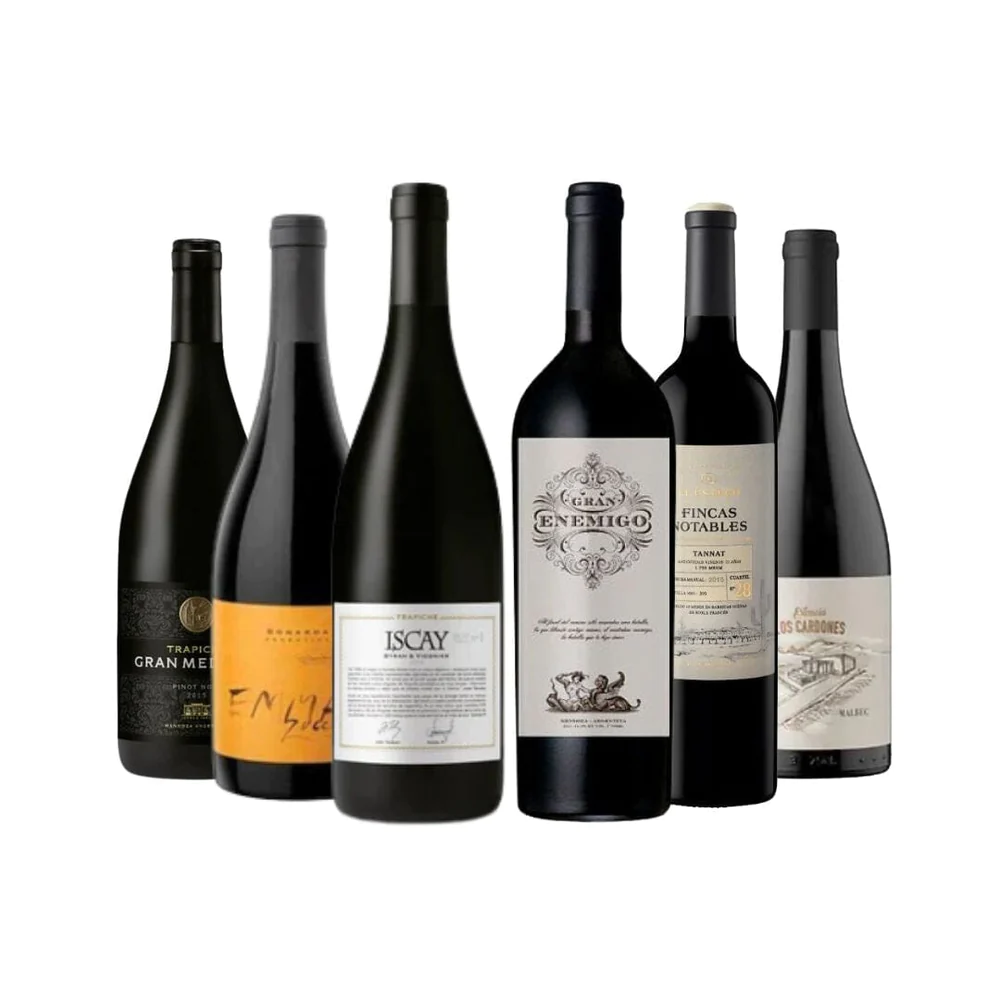
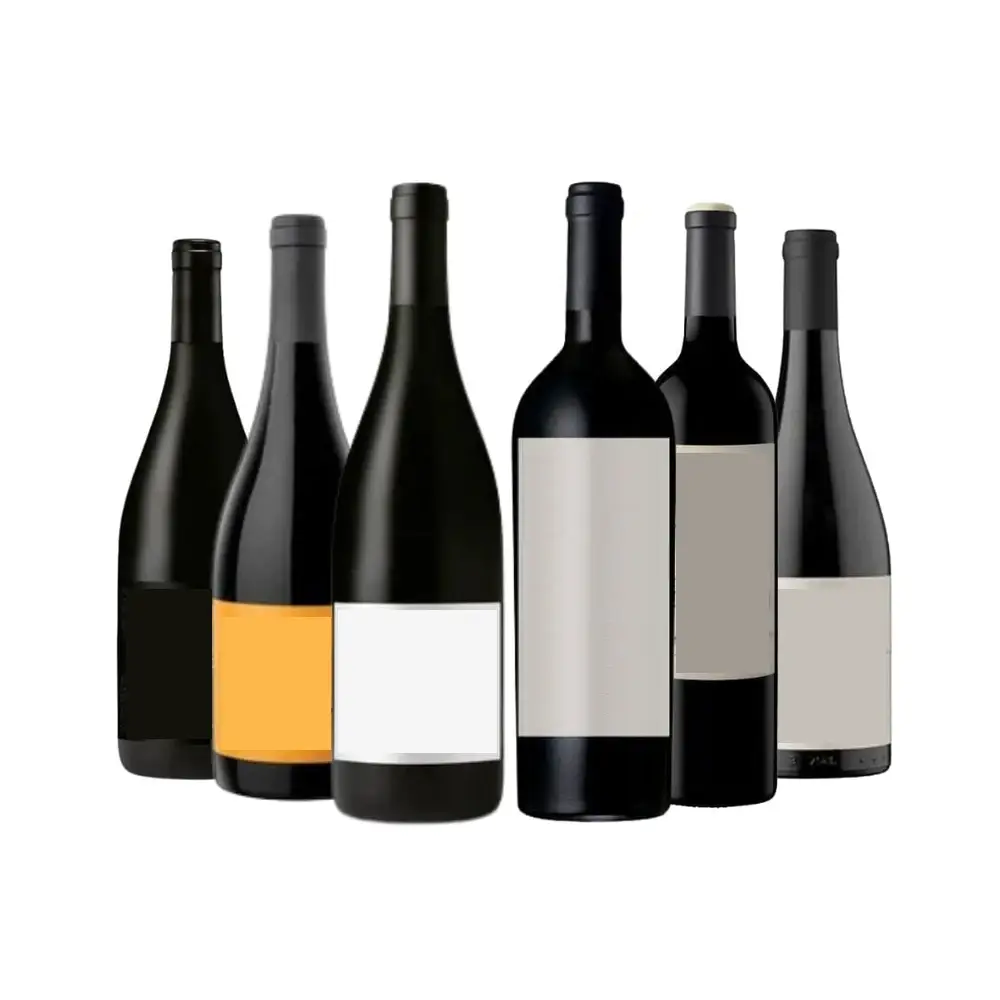
refactoring project

Changed region(s): [[0.527, 0.434, 0.868, 0.744], [0.124, 0.589, 0.496, 0.775]]

diff --git a/js/wineData.js b/js/wineData.js
@@ -2,111 +2,111 @@ const winesData = {
     "wines": [
         {
             "id": 0,
-            "name": "Malbec Reserve",
-            "description": "A full-bodied red wine with rich flavors of blackberry, plum, and hints of chocolate.",
+            "name": "Delicias del monte",
+            "description": "Un vino tinto de cuerpo completo con sabores intensos de mora, ciruela y toques de chocolate.",
             "price": 25.99,
             "year": 2018,
             "content": 750,
-            "score":89,
-            "category": "Red",
+            "score": 89,
+            "category": "Tinto",
             "stock": 5,
-            "img": "./img/wines/rotwein-fliederhof-suedtiroler-stmagdalener-classico-doc-gran-marie.webp"
+            "img": "./img/wines/generic.jpg"
         },
         {
             "id": 1,
-            "name": "Torrontés",
-            "description": "A fragrant white wine with floral aromas and notes of citrus and peach.",
+            "name": "VinoSeleccion",
+            "description": "Un vino blanco fragante con aromas florales y notas cítricas y de durazno.",
             "price": 18.5,
             "year": 2020,
             "content": 750,
-            "score":78,
-            "category": "White",
+            "score": 78,
+            "category": "Blanco",
             "stock": 10,
-            "img": "./img/wines/rotwein-gianni-doglia-grignolino-dasti-docg.webp"
+            "img": "./img/wines/generic.jpg"
         },
         {
             "id": 2,
-            "name": "Cabernet Sauvignon",
-            "description": "An elegant red wine with a complex bouquet of blackcurrant, tobacco, and spices.",
+            "name": "Gran delicia",
+            "description": "Un elegante vino tinto con un ramillete complejo de grosella negra, tabaco y especias.",
             "price": 29.75,
             "year": 2017,
             "content": 750,
-            "score":90,
-            "category": "Red",
+            "score": 90,
+            "category": "Tinto",
             "stock": 7,
-            "img": "./img/wines/rotwein-pio-cesare-barolo-docg.webp"
+            "img": "./img/wines/generic.jpg"
         },
         {
             "id": 3,
-            "name": "Chardonnay",
-            "description": "A rich and buttery white wine with flavors of tropical fruits and a hint of vanilla.",
+            "name": "Gran delicia",
+            "description": "Un vino blanco rico y untuoso con sabores de frutas tropicales y un toque de vainilla.",
             "price": 22.0,
             "year": 2019,
             "content": 750,
-            "score":87,
-            "category": "White",
+            "score": 87,
+            "category": "Blanco",
             "stock": 8,
-            "img": "./img/wines/rotwein-vespa-salento-negroamaro-igt-il-fedale.webp"
+            "img": "./img/wines/generic.jpg"
         },
         {
             "id": 4,
-            "name": "Bonarda",
-            "description": "A medium-bodied red wine with notes of ripe berries, black pepper, and a touch of oak.",
+            "name": "Chipione",
+            "description": "Un vino tinto de cuerpo medio con notas de bayas maduras, pimienta negra y un toque de roble.",
             "price": 19.9,
             "year": 2018,
             "content": 750,
-            "score":83,
-            "category": "Red",
+            "score": 83,
+            "category": "Tinto",
             "stock": 1,
-            "img": "./img/wines/rotwein-fliederhof-suedtiroler-stmagdalener-classico-doc-gran-marie.webp"
+            "img": "./img/wines/generic.jpg"
         },
         {
             "id": 5,
-            "name": "Malbec Rosé",
-            "description": "A refreshing rosé wine with delicate flavors of strawberries and a crisp finish.",
+            "name": "BuenBec",
+            "description": "Un refrescante vino rosado con sabores delicados de fresas y un final crujiente.",
             "price": 16.5,
             "year": 2020,
             "content": 750,
-            "score":69,
-            "category": "Rosé",
+            "score": 69,
+            "category": "Rosado",
             "stock": 5,
-            "img": "./img/wines/fliederhof-suedtiroler-sauvignon-doc-stella.webp"
+            "img": "./img/wines/generic.jpg"
         },
         {
             "id": 6,
-            "name": "Syrah",
-            "description": "A bold and spicy red wine with aromas of black fruits, black pepper, and a hint of violet.",
+            "name": "Chipione",
+            "description": "Un vino tinto intenso y especiado con aromas de frutas negras, pimienta negra y un toque de violeta.",
             "price": 26.5,
             "year": 2016,
             "content": 750,
-            "score":88,
-            "category": "Red",
+            "score": 88,
+            "category": "Tinto",
             "stock": 9,
-            "img": "./img/wines/inama-campo-del-lago-merlot-2015.webp"
+            "img": "./img/wines/generic.jpg"
         },
         {
             "id": 7,
-            "name": "Sauvignon Blanc",
-            "description": "A crisp and vibrant white wine with zesty citrus flavors and a herbal undertone.",
+            "name": "BuenBec",
+            "description": "Un vino blanco fresco y vibrante con sabores cítricos vivaces y un toque herbal.",
             "price": 21.75,
             "year": 2021,
             "content": 750,
-            "score":86,
-            "category": "White",
+            "score": 86,
+            "category": "Blanco",
             "stock": 15,
-            "img": "./img/wines/rotwein-vespa-salento-negroamaro-igt-il-fedale.webp"
+            "img": "./img/wines/generic.jpg"
         },
         {
             "id": 8,
-            "name": "Merlot",
-            "description": "A smooth and velvety red wine with flavors of black cherry, plum, and a hint of mocha.",
+            "name": "Marlot",
+            "description": "Un vino tinto suave y aterciopelado con sabores de cereza negra, ciruela y un toque de mocca.",
             "price": 23.99,
             "year": 2019,
             "content": 750,
-            "score":85,
-            "category": "Red",
+            "score": 85,
+            "category": "Tinto",
             "stock": 25,
-            "img": "./img/wines/rotwein-gianni-doglia-grignolino-dasti-docg.webp"
+            "img": "./img/wines/generic.jpg"
         }
     ]
-}
+};

diff --git a/js/cardsGenerator.js b/js/cardsGenerator.js
@@ -9,7 +9,7 @@ let uniqueCategories = arrayCategories.filter((w, index) => {
 function createCard(id) {
     const card = document.createElement("div")
     card.setAttribute("id", `card${id}`)
-    card.setAttribute("class", "card card-width p-2 h-600px d-flex justify-content-between")
+    card.setAttribute("class", "card card-width p-2 d-flex justify-content-between")
 
     const img = document.createElement("img")
     img.setAttribute("src", `${winesItems[id]["img"]}`)
@@ -17,7 +17,7 @@ function createCard(id) {
     img.setAttribute("class", "card-img-top")
 
     const cardBody = document.createElement("div")
-    cardBody.setAttribute("class", "card-body align-self-end")
+    cardBody.setAttribute("class", "card-body align-self-end pb-0")
 
     const name = document.createElement("h5")
     name.setAttribute("class", "card-title")

diff --git a/index.html b/index.html
@@ -138,7 +138,7 @@
                 </div>
             </div>
             <div id="cards"
-                class="cards gap-4 p-5 row text-center d-flex flex-wrap justify-content-center align-items-center">
+                class="cards gap-4 p-5 row text-center d-flex flex-wrap justify-content-center">
             </div>
         </section>
         <div class="frase bg-dark p-3">
